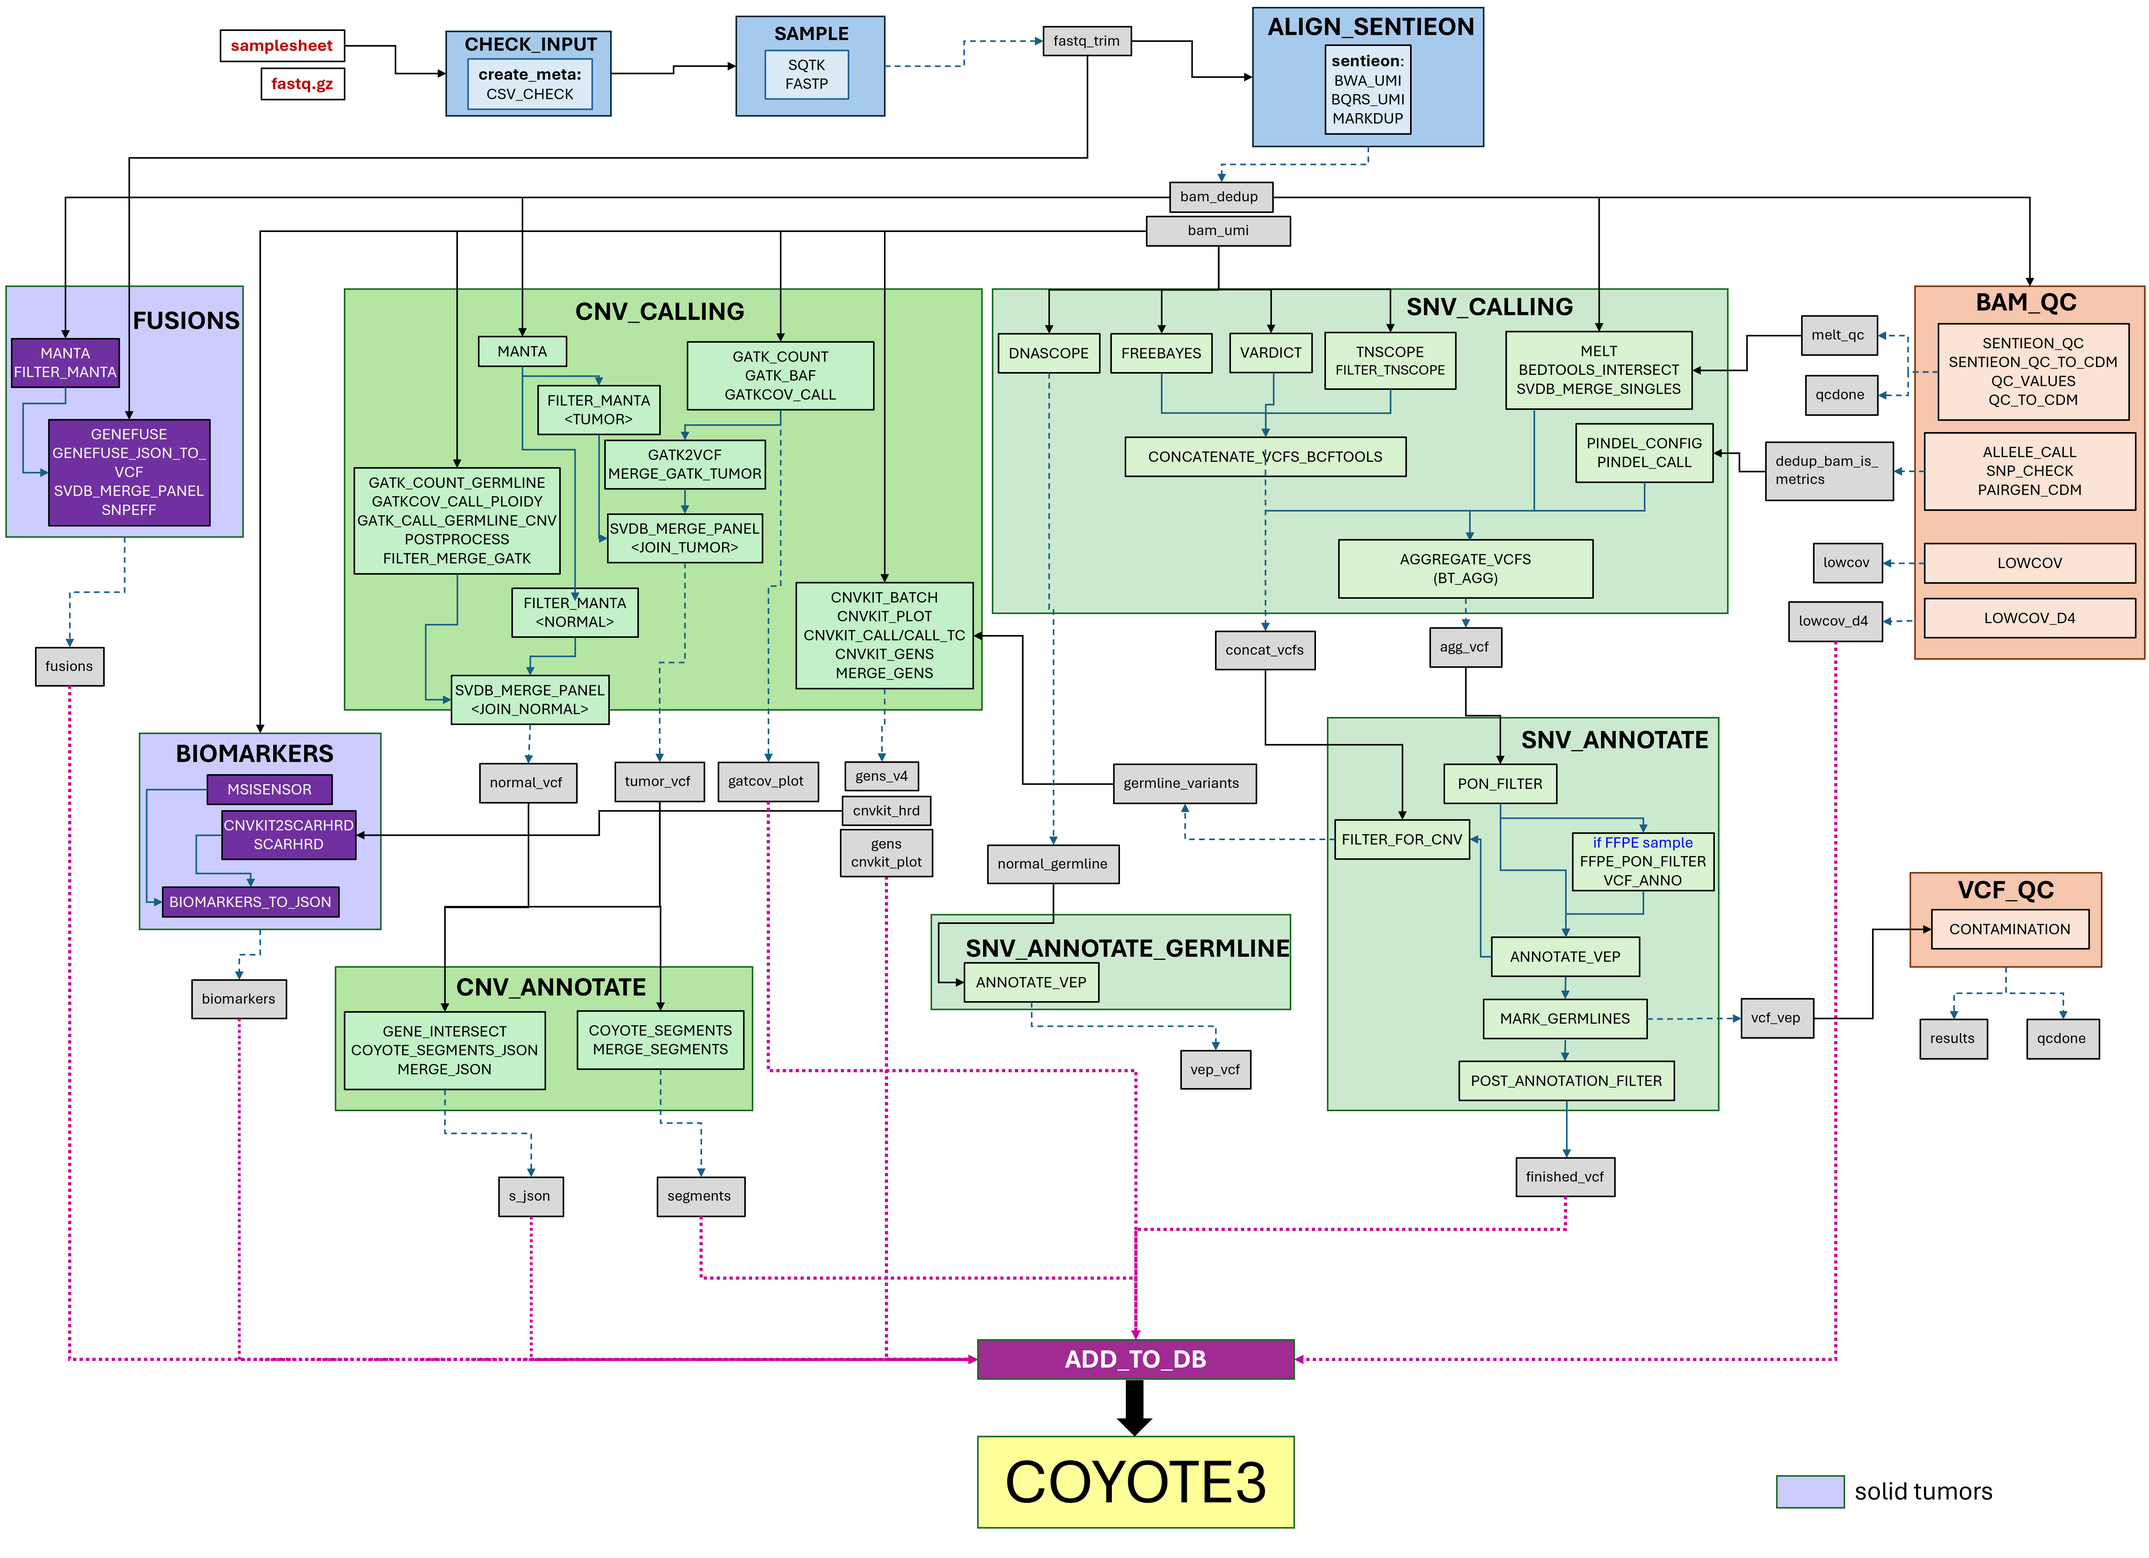
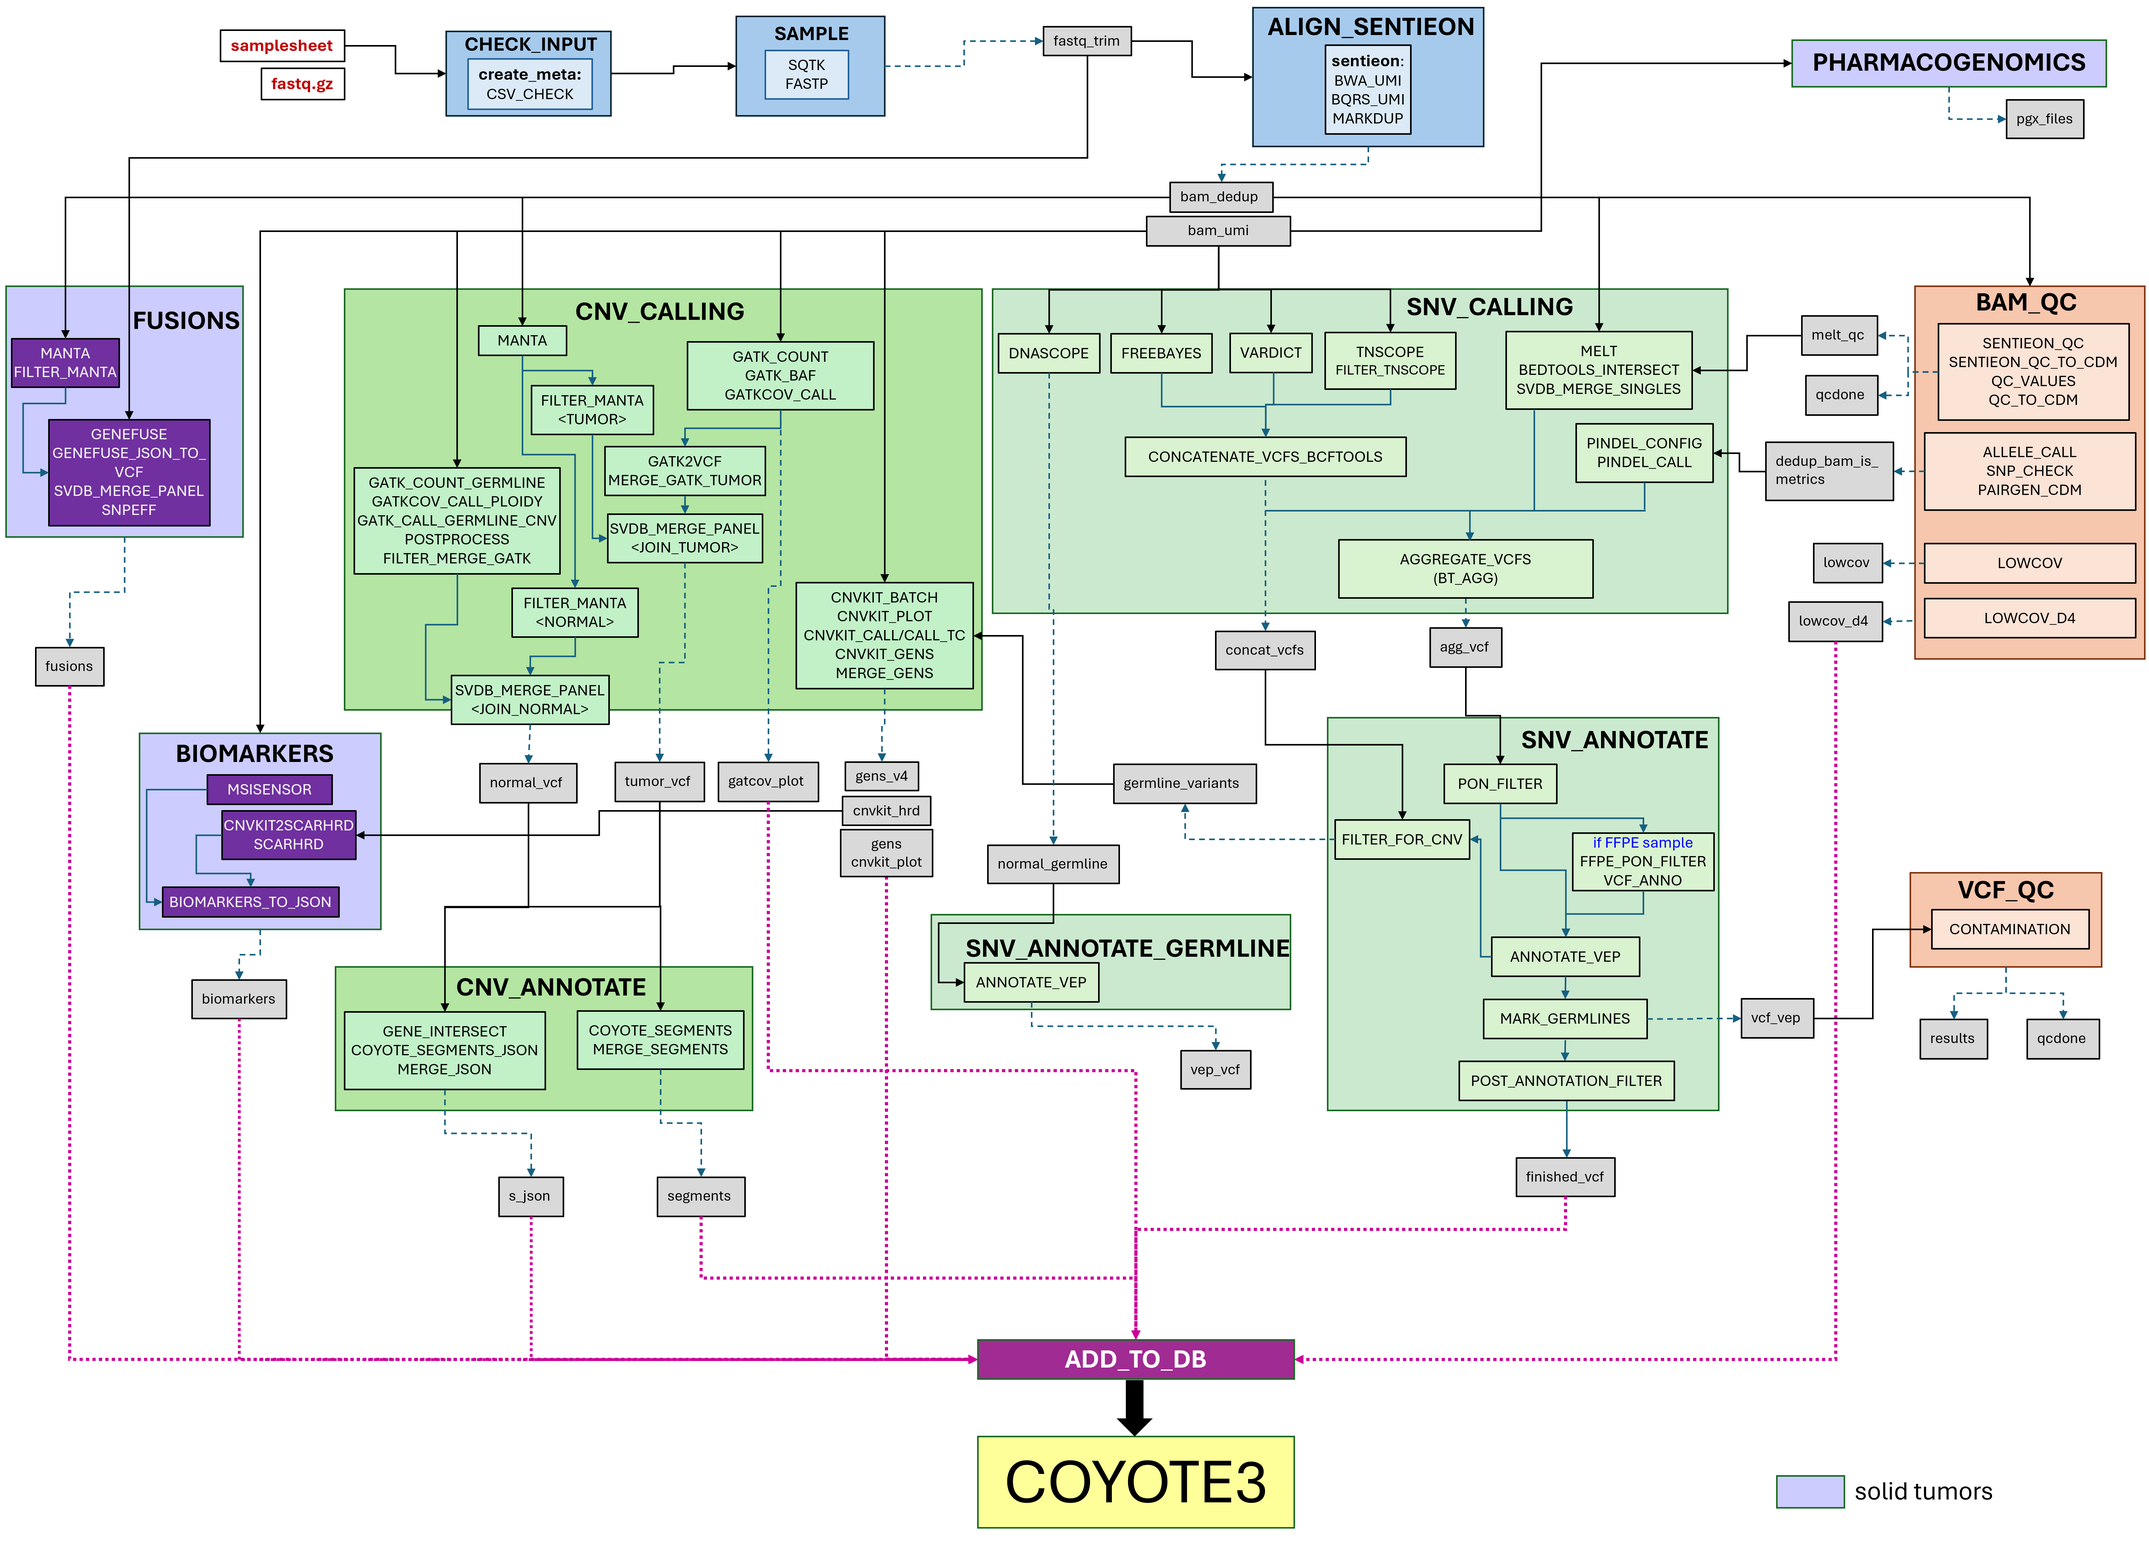
updated README and associated docs files

Changed region(s): [[0.8093, 0.0, 0.9961, 0.0933], [0.2179, 0.1866, 0.3735, 0.3422]]

diff --git a/docs/auxiliary_files.md b/docs/auxiliary_files.md
@@ -1,8 +1,87 @@
 # Auxiliary files
 
 A certain number of files are required to run the pipeline, and are successively specified in the `nextflow_hopper.config`.
+Only the auxiliary files needed for the profiles currently in use are listed below.
 
-| Parameter   | Function         | Format | Description                                      |
-|-------------|------------------|--------|--------------------------------------------------|
-| genome_file | Reference genome | fasta  | The main GRCh38 reference                        |
-| GENOMEDICT  | Reference genome | dict   | Dict file for the FASTA file [how was it build?] |
+| Parameter                         | Function         | Format          | Description                                      |
+|-----------------------------------|------------------|-----------------|--------------------------------------------------|
+| **params/PARP_inhib/solid/GMSHem**|                  |                 |                                                  | 
+| `idSnp_bed`                       |                  | `bed`           |                                                  | 
+| `idSnp_bed_gz`                    |                  | `tsv`           |                                                  | 
+| `idSnp_std_bed_gz`                |                  | `bed`           |                                                  | 
+| **params/solid**                  |                  |                 |                                                  | 
+| `mantafusions`                    | FUSIONS          | `bed`           |                                                  |
+| **params/GMSHem**                 |                  |                 |                                                  | 
+| `pindel_regions_bed`              | SNV-CALLING      | `bed`           |                                                  |
+| **hg38 profile**                  |                  |                 |                                                  | 
+| `genome_file`                     | Reference genome | `fasta`         | The main GRCh38 reference                        |
+| `GENOMEDICT`                      | Reference genome | `dict`          | Dict file for the FASTA file [how was it build?] |
+| `split_ref`                       | Reference genome |                 |                                                  |
+| `CADD`                            | Annotation (VEP) | `tsv`           |                                                  | 
+| `VEP_FASTA`                       | Annotation (VEP) | `fasta`         |                                                  | 
+| `GNOMAD`                          | Annotation (VEP) | `vcf`           |                                                  | 
+| `COSMIC`                          | Annotation (VEP) | `vcf`           |                                                  | 
+| `gene_regions`                    | Annotation (VEP) | `bed`           |                                                  | 
+| `gencode_genes`                   | Annotation (VEP) | `bed`           |                                                  | 
+| `GATK_GNOMAD`                     | Annotation (VEP) |                 |                                                  | 
+| `refflat`                         | Annotation (VEP) | `txt`           |                                                  |
+| `blacklist`                       | Annotation (VEP) | `bed`           |                                                  | 
+| `priors`                          | Annotation (VEP) |                 |                                                  | 
+| `gene_gtf`                        | Annotation (VEP) | `bed`           |                                                  | 
+| `verifybamidloci`                 | Annotation (VEP) | `vcf`           |                                                  | 
+| **PARP_inhib**                    |                  |                 |                                                  | 
+| `PON_freebayes`                   | PON              |                 |                                                  | 
+| `PON_vardict`                     | PON              |                 |                                                  |
+| `regions_bed`                     |                  | `bed`           |                                                  |
+| `interval_list`                   |                  |                 |                                                  |
+| `regions_proteincoding`           |                  | `bed`           |                                                  |
+| `markgermline`                    | SNV calling      | `json`          |                                                  |
+| `panel_cna`                       | CNV calling      |                 |                                                  |
+| `bedgz`                           | MANTA            | `bed`           |                                                  |
+| `cnvkit_reference`                | CNV calling      |                 |                                                  |
+| `gatk_intervals_full`             | CNV calling      | `intervall_list`|                                                  |
+| `GATK_pon`                        | CNV calling      | `hdf5`          |                                                  |
+| `gatk_intervals`                  | CNV calling      | `intervall_list`|                                                  |
+| **solid**                         |                  |                 |                                                  | 
+| `PON_freebayes`                   | PON              |                 |                                                  |
+| `PON_vardict`                     | PON              |                 |                                                  |
+| `regions_bed`                     |                  | `bed`           |                                                  |
+| `regions_bed_exons`               |                  | `bed`           |                                                  |
+| `regions_bed_backbone`            |                  | `bed`           |                                                  |
+| `regions_backbone_idsnps`         |                  | `bed`           |                                                  |
+| `interval_list`                   |                  | `intervall_list`|                                                  |
+| `regions_bed_qc`                  |                  | `bed`           |                                                  | 
+| `interval_list_qc`                |                  | `intervall_list`|                                                  |
+| `regions_proteincoding`           |                  | `bed`           |                                                  |
+| `cov_probes`                      |                  | `bed`           |                                                  |
+| `markgermline`                    | SNV calling      | `json`          |                                                  |
+| `panel_cna`                       | CNV calling      |                 |                                                  |
+| `loqusdb_vcfs`                    | CNV calling      | `vcf`           |                                                  |
+| `bedgz`                           | MANTA            | `bed`           |                                                  |
+| `cnvkit_reference`                | CNV calling      | `cnn`           |                                                  |
+| `cnvkit_reference_exons`          | CNV calling      | `cnn`           |                                                  |
+| `cnvkit_reference_backbone`       | CNV calling      | `cnn`           |                                                  |
+| `gatk_intervals_full`             | CNV calling      | `intervall_list`|                                                  |
+| `GATK_pon`                        | CNV calling      | `hdf5`          |                                                  |
+| `gatk_intervals`                  | CNV calling      | `intervall_list`|                                                  |
+| `genefuse_reference`              | FUSIONS          | `csv`           |                                                  |
+| `msi_baseline`                    | BIOMARKERS       | `list`          |                                                  |
+| `msi_pro_baseline`                | BIOMARKERS       | `list_baseline` |                                                  |
+| **GMSHem**                        |                  |                 |                                                  | 
+| `PON_freebayes`                   | PON              |                 |                                                  | 
+| `PON_vardict`                     | PON              |                 |                                                  |
+| `PON_tnscope`                     | PON              |                 |                                                  |
+| `regions_bed`                     |                  | `bed`           |                                                  |
+| `interval_list`                   |                  | `intervall_list`|                                                  |
+| `regions_bed_qc`                  |                  | `bed`           |                                                  | 
+| `interval_list_qc`                |                  | `intervall_list`|                                                  |
+| `regions_proteincoding`           |                  | `bed`           |                                                  |
+| `regions_bed_backbone`            |                  | `bed`           |                                                  |
+| `regions_backbone_idsnps`         |                  | `bed`           |                                                  |
+| `markgermline`                    | SNV calling      | `json`          |                                                  |
+| `panel_cna`                       | CNV calling      |                 |                                                  |
+| `manta`                           | MANTA            | `bed`           |                                                  |
+| `cnvkit_reference`                | CNV calling      | `cnn`           |                                                  |
+| `gatk_intervals_full`             | CNV calling      | `intervall_list`|                                                  |
+| `GATK_pon`                        | CNV calling      | `hdf5`          |                                                  |
+| `gatk_intervals`                  | CNV calling      | `intervall_list`|                                                  |

diff --git a/README.md b/README.md
@@ -8,6 +8,7 @@ Starting from raw FASTQ files, SPP performs alignment, quality control, SNV/inde
 * [Pipeline overview](docs/pipeline_overview.png)
 * [Running the pipeline](docs/running_the_pipeline.md)
 * Input:
+    * [auxiliary files](docs/auxiliary_files.md)
     * [containers](docs/containers.md)
     * [Sentieon license](docs/containers.md)
 * [List of used softwares](docs/list_of_used_softwares.md)
@@ -18,16 +19,15 @@ The SomaticPanelPipeline
 
 A typical workflow
 
-1. Validate input CSV and create sample metadata
-2. Downsample and/or trim reads if required by the assay
-3. Align reads with BWA-MEM and process UMI tags, deduplicate and apply BQSR
-4. Calculate BAM QC and coverage metrics, check ID-SNPs for sample identity
-5. Call SNVs and indels in parallel across bed regions using Freebayes, VarDict, TNscope and Pindel
-6. Filter SNV calls against panel-of-normals (PoN), annotate with VEP and mark germline variants
-7. Call copy number variants using CNVkit and GATK, detect structural variants with Manta
-8. Annotate and segment CNV calls, calculate HRD (and MSI biomarkers for solid tumors)
-9. Detect DNA fusions using Genefuse and Manta (solid tumors)
-10. Aggregate all results and import into the Coyote variant interpretation database
+1. Validate input CSV and optionally downsample and trim the reads
+2. Align reads to the reference genome using Sentieon BWA, mark duplicates and perform base quality score recalibration
+3. Calculate alignment QC metrics, coverage, verify normal/tumor sample identity using ID-SNPs
+4. Call SNVs and indels across genomic regions using Freebayes, VarDict, and optionally TNscope and Pindel
+5. Filter SNVs against panel-of-normals (PoN), annotate with VEP, then mark germline variants
+6. Call CNVs using CNVkit and GATK, detect structural variants with Manta
+7. Annotate CNV calls with gene information
+8. Detect DNA fusions and compute microsatellite instability (MSI) and homologous recombination deficiency (HRD) scores (solid tumors only)
+9. Aggregate all results and import into the Coyote variant interpretation database
 
 Pipeline overview:
 ![Pipeline](docs/pipeline_overview.png)

diff --git a/docs/running_the_pipeline.md b/docs/running_the_pipeline.md
@@ -57,16 +57,16 @@ nextflow run main.nf \
         --csv <path_to_input_csv_file>
 ```
 
-Note that the profile hg38 is always associated with the profile of analysis you want to run.
+Note that the profile `hg38` needs to always be included with the profile of analysis you want to run.
 
-### Running the pipeline
+### Running the pipeline with real data
 ```bash
 nextflow run main.nf \
         -entry SPP \
         -profile hg38,<name_of_profile_from nextflow.config> \
         --csv <path_to_input_csv_file>
 ```
-Note that the profile hg38 is always associated with the profile of analysis you want to run.
+Note that the profile hg38 needs to always be included with the profile of analysis you want to run.
 Other usefull commands:
 - the command `-resume`if you want to re-run the pipeline and only execute the missing/changed steps from a previous run.
-- the --dev params allows you to redirect the results directory to results_dev
+- the `--dev` params allows you to redirect the results directory to results_dev
